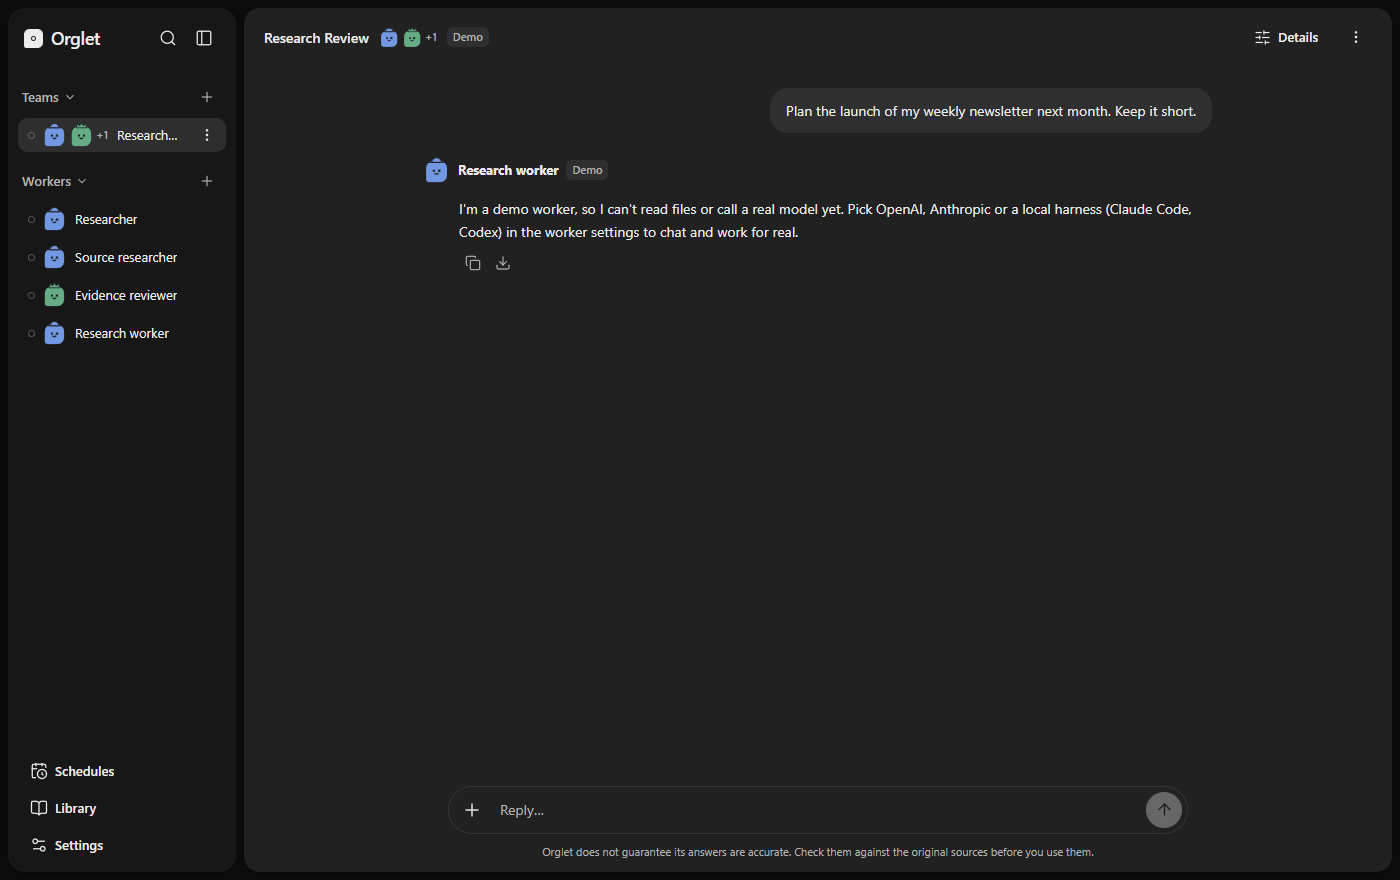
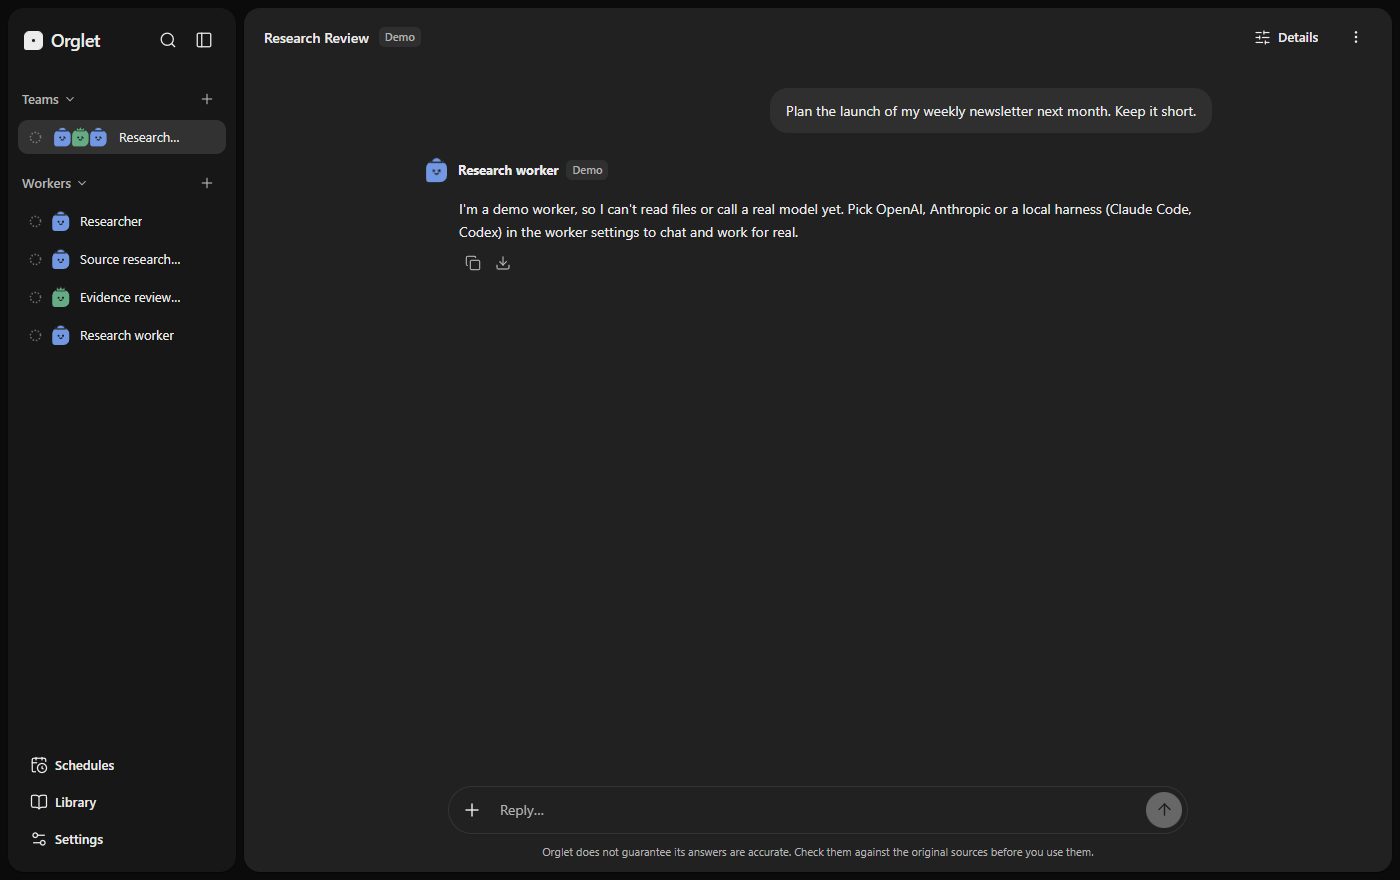
COD-77: recapture the README shots, and fix what they now contradict
Today moved the shell a lot: rounded panel insets, status marks that
carry a glyph, avatars at one size, three faces on a team row, and a
fresh chat that centres its greeting, prompt bar and starters. All four
images predated it.

Recaptured from a fresh package of main. Two captions were describing
the old app and are corrected rather than left beside a new picture: the
@ menu no longer offers the team name, and a team row no longer expands
a roster in the sidebar, because its members moved into the chat details
panel.

diff --git a/docs/team-chat.md b/docs/team-chat.md
@@ -22,7 +22,7 @@ Under the hood the thread is still a `tasks` row. **Chi tiết** lists internal 
 2. If there is no live thread yet, you get an empty chat (composer pinned at the bottom). The first send creates the thread.
 3. If a live thread already exists, it opens with the saved messages. Later sends are follow-ups in the same chat.
 
-The chevron next to a **team** avatar still expands or collapses the roster. Clicking the team name selects the team and keeps the roster open. **Workers have no nested task list.**
+A **team** row is one row: clicking it opens that team's chat. Its members are listed in the chat **Details** panel, not nested under it in the sidebar. **Workers have no nested task list.**
 
 Ctrl+N focuses the current worker or team chat (it does not create a new session). Search (Ctrl+K) finds chats by their text, including archived ones.
 
@@ -74,7 +74,7 @@ Cancel aborts the whole turn (plan + members + synthesis). Partial success stays
 
 ## @mentions
 
-In a **team** or **group** chat, type `@` in the composer to pick a worker, `@all`, or the team name. Tagged names highlight in the message.
+In a **team** or **group** chat, type `@` in the composer to pick a worker or `@all`. Tagged names highlight in the message. The team's own name is not offered, because tagging it means what `@all` means; typed by hand it still works, so older messages keep their meaning.
 
 - **Group chat:** only tagged assignees answer that turn. `@all`, the team name, or no tag keeps everyone.
 - **Team chat:** Demo assigns the tagged members. A live planner is told who you tagged and may still assign others. Untagged messages still assign every member.

diff --git a/docs/getting-started.md b/docs/getting-started.md
@@ -88,10 +88,10 @@ On a team, the lead plans, assigned members work as hidden jobs, and one report 
   <img src="images/chat-light.png" alt="A team chat after a Demo turn. One report is in the thread; member jobs stay under Details." width="720">
 </p>
 
-In a **team** chat, type `@` to pick a worker, `@all`, or the team name. Tagged names highlight. Demo then asks those members. Leave it untagged, or type `@all`, to ask everyone. A 1:1 worker chat has no `@` picker.
+In a **team** chat, type `@` to pick a worker or `@all`. Tagged names highlight. Demo then asks those members. Leave it untagged, or type `@all`, to ask everyone. A 1:1 worker chat has no `@` picker.
 
 <p align="center">
-  <img src="images/mention-picker.png" alt="Typing @ in a team chat opens a list of workers, all, and the team name." width="720">
+  <img src="images/mention-picker.png" alt="Typing @ in a team chat opens a list with all and each worker." width="720">
 </p>
 
 How that works: [team-chat.md](team-chat.md).
